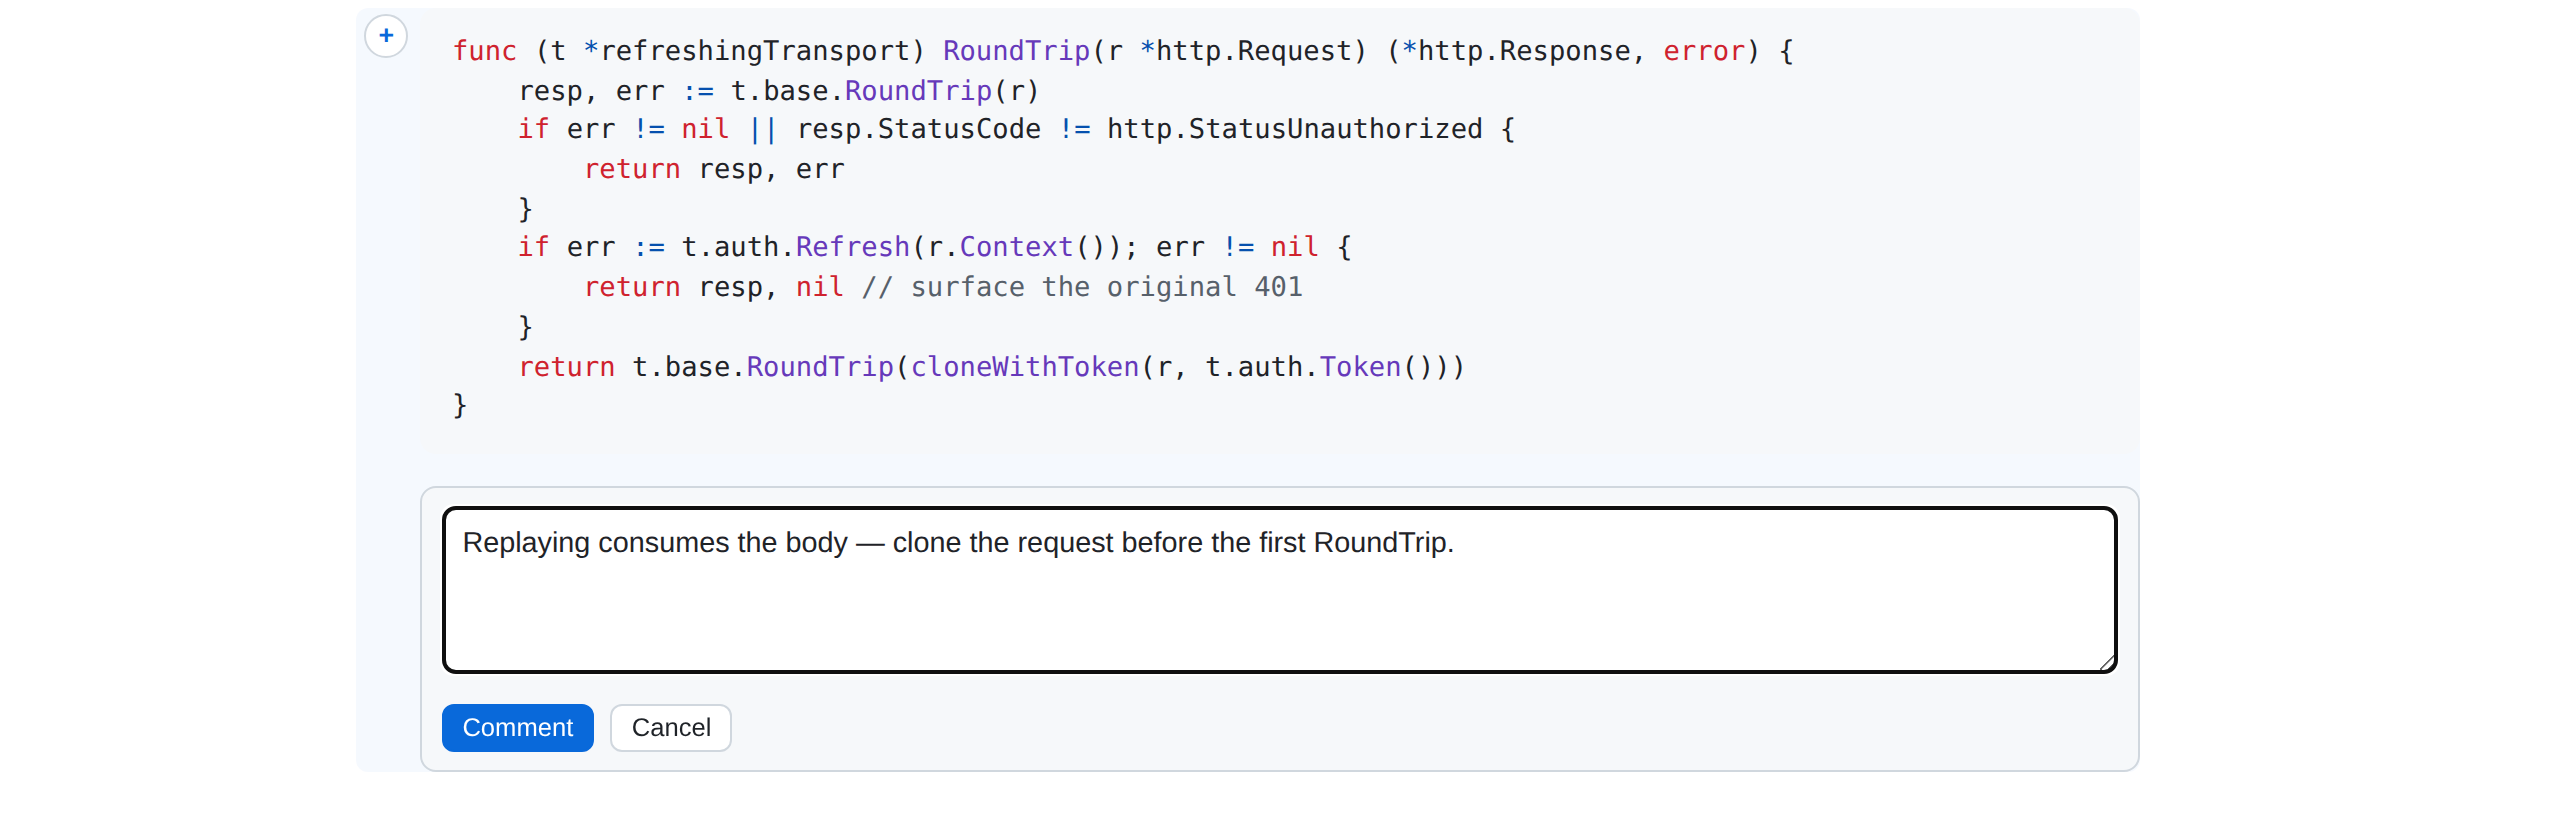
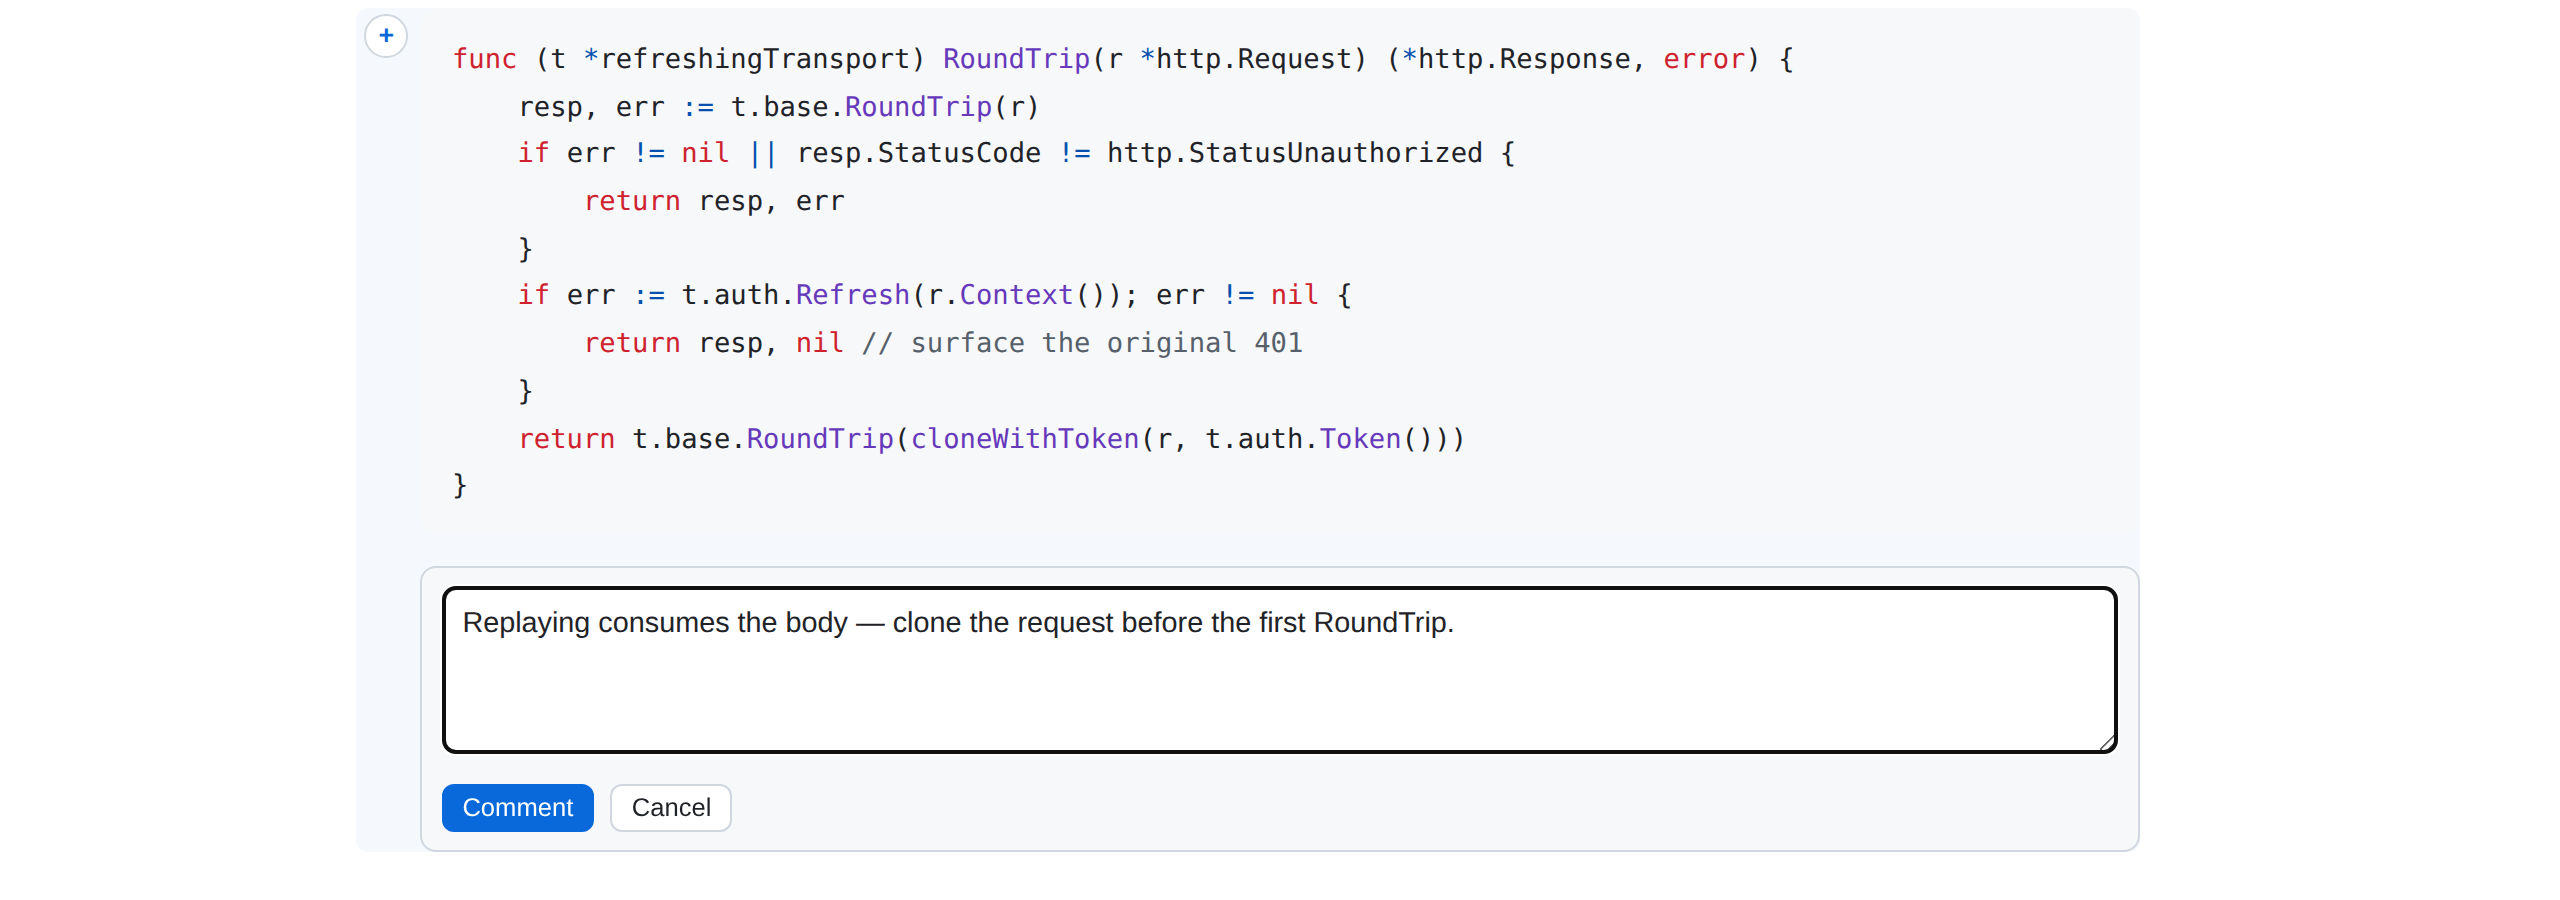
Add file-tree sidebar to diff review; fix dark-mode token colors
The diff view gains a sticky file-tree sidebar with GitHub-style
compressed directory chains, per-file status dots, viewed checkmarks
kept in sync with the file cards, and click-to-jump anchors.

The highlight stylesheet is now generated over the full standard token
class set for both themes, resolving each color through the style's
inheritance chain — previously classes the dark style didn't define
kept their near-black light colors on the dark background, leaving
plain identifiers illegible in dark mode.

README gains a split-view dark-theme screenshot alongside the refreshed
tree-bearing hero shot; e2e covers the tree (compression, jump,
viewed sync).

Claude-Session: https://claude.ai/code/session_016ZcjUr8X7rz4QhRxVp5XSH

diff --git a/web/assets/app.css b/web/assets/app.css
@@ -140,7 +140,7 @@ html, body {
 /* Layout */
 #main { padding: 1.5rem 1rem 6rem; }
 body[data-mode="doc"] #content { max-width: 860px; margin: 0 auto; }
-body[data-mode="diff"] #content { max-width: 1200px; margin: 0 auto; }
+body[data-mode="diff"] #content { max-width: 1440px; margin: 0 auto; }
 
 .section-label {
   font-size: 0.8rem; text-transform: uppercase; letter-spacing: 0.05em;
@@ -304,8 +304,66 @@ body[data-mode="diff"] #content { max-width: 1200px; margin: 0 auto; }
 .stat-del { color: var(--danger); font-weight: 600; }
 .empty-diff { text-align: center; color: var(--muted); padding: 3rem 0; }
 
+/* Layout: file tree beside the file cards */
+.diff-layout { display: flex; gap: 1.25rem; align-items: flex-start; }
+.diff-files { flex: 1; min-width: 0; }
+
+.file-tree {
+  position: sticky;
+  top: 3.8rem;
+  width: 240px;
+  flex-shrink: 0;
+  max-height: calc(100vh - 5rem);
+  overflow-y: auto;
+  font-size: 0.82rem;
+  padding-right: 0.25rem;
+}
+.file-tree ul { list-style: none; margin: 0; padding: 0 0 0 0.9rem; }
+.file-tree > ul { padding-left: 0; }
+.file-tree summary.tree-dir {
+  cursor: pointer;
+  color: var(--muted);
+  font-weight: 600;
+  padding: 0.15rem 0.3rem;
+  border-radius: 6px;
+  white-space: nowrap;
+  overflow: hidden;
+  text-overflow: ellipsis;
+  list-style-position: outside;
+}
+.file-tree summary.tree-dir:hover { background: var(--surface); }
+.tree-file {
+  display: flex;
+  align-items: center;
+  gap: 0.4rem;
+  padding: 0.15rem 0.3rem;
+  border-radius: 6px;
+  color: var(--fg);
+  text-decoration: none;
+  font-family: ui-monospace, SFMono-Regular, Menlo, Consolas, monospace;
+  white-space: nowrap;
+}
+.tree-file:hover { background: var(--surface); }
+.tree-name { overflow: hidden; text-overflow: ellipsis; flex: 1; }
+.tree-dot {
+  width: 0.5rem; height: 0.5rem;
+  border-radius: 50%;
+  flex-shrink: 0;
+  background: var(--muted);
+}
+.tree-dot.st-added { background: var(--success); }
+.tree-dot.st-deleted { background: var(--danger); }
+.tree-dot.st-renamed, .tree-dot.st-modified { background: #d4a72c; }
+.tree-check { color: var(--success); visibility: hidden; font-weight: 700; }
+.tree-file.viewed { color: var(--muted); }
+.tree-file.viewed .tree-check { visibility: visible; }
+@media (max-width: 1000px) {
+  .file-tree { display: none; }
+}
+
 /* File cards */
 .file {
+  scroll-margin-top: 3.8rem;
   border: 1px solid var(--border);
   border-radius: 8px;
   margin-bottom: 1rem;

diff --git a/e2e/diff.spec.js b/e2e/diff.spec.js
@@ -94,6 +94,28 @@ test.describe("planman diff review flow", () => {
     await expect(resolved.locator(".reply .comment-author")).toHaveText("agent");
   });
 
+  test("file tree: nested dirs compress, entries jump to files, viewed syncs", async ({ page }) => {
+    app = await launchDiff();
+    app.repo.write("pkg/util/strings.go", "package util\n\nfunc Upper(s string) string { return s }\n");
+    await page.goto(app.url);
+
+    const tree = page.locator(".file-tree");
+    await expect(tree).toBeVisible();
+    // Single-child dir chain pkg/util is compressed into one label.
+    await expect(tree.locator("summary.tree-dir", { hasText: "pkg/util" })).toBeVisible();
+    await expect(tree.locator(".tree-file")).toHaveCount(3);
+
+    // Clicking a tree entry jumps to that file's card.
+    await tree.locator('.tree-file[data-path="pkg/util/strings.go"]').click();
+    await expect(page).toHaveURL(/#f-/);
+    const target = page.locator('.file[data-path="pkg/util/strings.go"]');
+    await expect(target).toBeInViewport();
+
+    // Marking a file viewed reflects in the tree.
+    await target.locator(".viewed-box").check();
+    await expect(tree.locator('.tree-file[data-path="pkg/util/strings.go"]')).toHaveClass(/viewed/);
+  });
+
   test("split view aligns old and new sides", async ({ page }) => {
     app = await launchDiff();
     await page.goto(app.url);

diff --git a/web/templates/diff.html b/web/templates/diff.html
@@ -47,8 +47,15 @@
 <div class="empty-diff">No changes to review.</div>
 {{end}}
 
+<div class="diff-layout">
+{{if .Tree}}
+<nav class="file-tree" aria-label="Changed files">
+  <ul>{{template "tree-nodes" .Tree}}</ul>
+</nav>
+{{end}}
+<div class="diff-files">
 {{range .Files}}
-<section class="file" data-path="{{.Path}}" data-fp="{{.Fingerprint}}">
+<section class="file" id="f-{{.Fingerprint}}" data-path="{{.Path}}" data-fp="{{.Fingerprint}}">
   <header class="file-header">
     <button class="icon-btn chevron" title="Collapse or expand this file">▾</button>
     <span class="file-status st-{{.Status}}">{{.Status}}</span>
@@ -90,6 +97,26 @@
     {{end}}
   </div>
 </section>
+{{end}}
+</div>
+</div>
+{{end}}
+
+{{define "tree-nodes"}}
+{{range .}}
+<li>
+{{if .IsDir}}
+  <details open>
+    <summary class="tree-dir">{{.Name}}</summary>
+    <ul>{{template "tree-nodes" .Children}}</ul>
+  </details>
+{{else}}
+  <a class="tree-file" href="#f-{{.Fingerprint}}" data-path="{{.Path}}" title="{{.Path}}">
+    <span class="tree-dot st-{{.Status}}"></span><span class="tree-name">{{.Name}}</span>
+    <span class="tree-check" title="Viewed">✓</span>
+  </a>
+{{end}}
+</li>
 {{end}}
 {{end}}
 

diff --git a/web/assets/app.js b/web/assets/app.js
@@ -78,6 +78,10 @@
       var box = file.querySelector(".viewed-box");
       if (box) box.checked = isViewed;
       file.classList.toggle("collapsed", !!collapsed[path]);
+      var treeEntry = document.querySelector(
+        '.tree-file[data-path="' + CSS.escape(path) + '"]'
+      );
+      if (treeEntry) treeEntry.classList.toggle("viewed", isViewed);
     });
   }
 
@@ -88,7 +92,7 @@
     if (e.target.checked) state[file.dataset.path] = file.dataset.fp;
     else delete state[file.dataset.path];
     saveViewed(state);
-    file.classList.toggle("viewed", e.target.checked);
+    applyFileState();
   });
 
   document.body.addEventListener("click", function (e) {

diff --git a/e2e/helpers.js b/e2e/helpers.js
@@ -141,8 +141,11 @@ function makeRepo() {
         GIT_COMMITTER_EMAIL: "t@t",
       },
     });
-  const write = (name, content) =>
-    fs.writeFileSync(path.join(dir, name), content);
+  const write = (name, content) => {
+    const p = path.join(dir, name);
+    fs.mkdirSync(path.dirname(p), { recursive: true });
+    fs.writeFileSync(p, content);
+  };
 
   git("init", "-b", "main");
   write(

diff --git a/internal/diffmode/view.go b/internal/diffmode/view.go
@@ -3,6 +3,8 @@ package diffmode
 import (
 	"fmt"
 	"html/template"
+	"sort"
+	"strings"
 
 	"github.com/alecthomas/chroma/v2"
 	"github.com/olmesm/planman/internal/gitdiff"
@@ -17,12 +19,90 @@ type contentData struct {
 	Base         string
 	View         string // "unified" | "split"
 	Files        []*fileVM
+	Tree         []*treeNode
 	PageComments []*review.Comment
 	// Detached threads whose file is no longer in the diff at all.
 	Detached  []*review.Comment
 	NumFiles  int
 	TotalAdds int
 	TotalDels int
+}
+
+// treeNode is one entry in the file-tree sidebar: a directory (possibly
+// a compressed chain like "internal/server") or a changed file.
+type treeNode struct {
+	Name        string
+	Path        string // file nodes: full path, matching the file card
+	IsDir       bool
+	Status      string
+	Fingerprint string
+	Additions   int
+	Deletions   int
+	Children    []*treeNode
+}
+
+// buildTree folds the (path-sorted) file list into a directory tree,
+// with single-child directory chains compressed GitHub-style.
+func buildTree(files []*fileVM) []*treeNode {
+	root := &treeNode{IsDir: true}
+	dirs := map[string]*treeNode{"": root}
+	for _, f := range files {
+		parts := strings.Split(f.Path, "/")
+		dirPath := ""
+		parent := root
+		for _, p := range parts[:len(parts)-1] {
+			if dirPath == "" {
+				dirPath = p
+			} else {
+				dirPath += "/" + p
+			}
+			n := dirs[dirPath]
+			if n == nil {
+				n = &treeNode{Name: p, IsDir: true}
+				dirs[dirPath] = n
+				parent.Children = append(parent.Children, n)
+			}
+			parent = n
+		}
+		parent.Children = append(parent.Children, &treeNode{
+			Name:        parts[len(parts)-1],
+			Path:        f.Path,
+			Status:      f.Status,
+			Fingerprint: f.Fingerprint,
+			Additions:   f.Additions,
+			Deletions:   f.Deletions,
+		})
+	}
+	compressTree(root)
+	sortTree(root)
+	return root.Children
+}
+
+func compressTree(n *treeNode) {
+	if n.IsDir && n.Name != "" {
+		for len(n.Children) == 1 && n.Children[0].IsDir {
+			c := n.Children[0]
+			n.Name += "/" + c.Name
+			n.Children = c.Children
+		}
+	}
+	for _, c := range n.Children {
+		compressTree(c)
+	}
+}
+
+// sortTree orders directories before files, each alphabetically.
+func sortTree(n *treeNode) {
+	sort.SliceStable(n.Children, func(i, j int) bool {
+		a, b := n.Children[i], n.Children[j]
+		if a.IsDir != b.IsDir {
+			return a.IsDir
+		}
+		return a.Name < b.Name
+	})
+	for _, c := range n.Children {
+		sortTree(c)
+	}
 }
 
 type fileVM struct {

diff --git a/internal/highlight/highlight.go b/internal/highlight/highlight.go
@@ -5,7 +5,9 @@ package highlight
 
 import (
 	"bytes"
+	"fmt"
 	"html"
+	"sort"
 	"strings"
 	"sync"
 
@@ -84,13 +86,53 @@ func Stylesheet() []byte {
 	return sheet
 }
 
+// styleCSS renders a style as CSS rules covering every standard token
+// class, resolving each color through the style's inheritance chain.
+// Emitting the full set for both themes matters: the light and dark
+// styles define different subsets, and any class the dark block left
+// out would keep its light color on a dark background.
 func styleCSS(name string) []byte {
 	style := styles.Get(name)
 	if style == nil {
 		style = styles.Fallback
 	}
+	base := style.Get(chroma.Background)
+
+	classes := make([]string, 0, len(chroma.StandardTypes))
+	byClass := map[string]chroma.TokenType{}
+	for t, cls := range chroma.StandardTypes {
+		if cls == "" || cls == "chroma" || t == chroma.Background {
+			continue
+		}
+		classes = append(classes, cls)
+		byClass[cls] = t
+	}
+	sort.Strings(classes)
+
 	var b bytes.Buffer
-	_ = Formatter.WriteCSS(&b, style)
+	fmt.Fprintf(&b, ".chroma { color: %s; background-color: %s }\n",
+		base.Colour.String(), base.Background.String())
+	for _, cls := range classes {
+		e := style.Get(byClass[cls])
+		colour := e.Colour
+		if !colour.IsSet() {
+			colour = base.Colour
+		}
+		fmt.Fprintf(&b, ".chroma .%s { color: %s", cls, colour.String())
+		if e.Background.IsSet() && e.Background != base.Background {
+			fmt.Fprintf(&b, "; background-color: %s", e.Background.String())
+		}
+		if e.Bold == chroma.Yes {
+			b.WriteString("; font-weight: bold")
+		}
+		if e.Italic == chroma.Yes {
+			b.WriteString("; font-style: italic")
+		}
+		if e.Underline == chroma.Yes {
+			b.WriteString("; text-decoration: underline")
+		}
+		b.WriteString(" }\n")
+	}
 	return b.Bytes()
 }
 

diff --git a/internal/diffmode/diffmode.go b/internal/diffmode/diffmode.go
@@ -117,6 +117,7 @@ func (m *Mode) Content() (string, any, error) {
 	for _, f := range d.Files {
 		data.Files = append(data.Files, buildFileVM(f, view, placed[f.Path()]))
 	}
+	data.Tree = buildTree(data.Files)
 	return "diff", data, nil
 }
 

diff --git a/README.md b/README.md
@@ -24,7 +24,9 @@ No database, no cloud, no auth, no CDN.
 └──────────┘   {"event":"handback", ...}
 ```
 
-![A git diff reviewed GitHub-style: word-level highlights and an inline comment thread](docs/diff.png)
+![A git diff reviewed GitHub-style: file tree, word-level highlights, and an inline comment thread](docs/diff.png)
+
+![The same review in split view with the dark theme](docs/split.png)
 
 ![A rendered markdown plan with an inline comment thread and a mermaid diagram](docs/review.png)
 
@@ -68,7 +70,8 @@ On start they print `{"event":"ready","url":"http://127.0.0.1:PORT"}`
 
 ## Reviewing a diff
 
-`planman diff` renders the changes the way GitHub's PR review does:
+`planman diff` renders the changes the way GitHub's PR review does: a
+file-tree sidebar (status dots, viewed checkmarks, click to jump),
 per-file cards with add/delete stats, syntax-highlighted rows,
 word-level change emphasis, expandable hunk context, collapse and
 **Viewed** checkboxes, and a unified/split toggle. Three scopes cover
